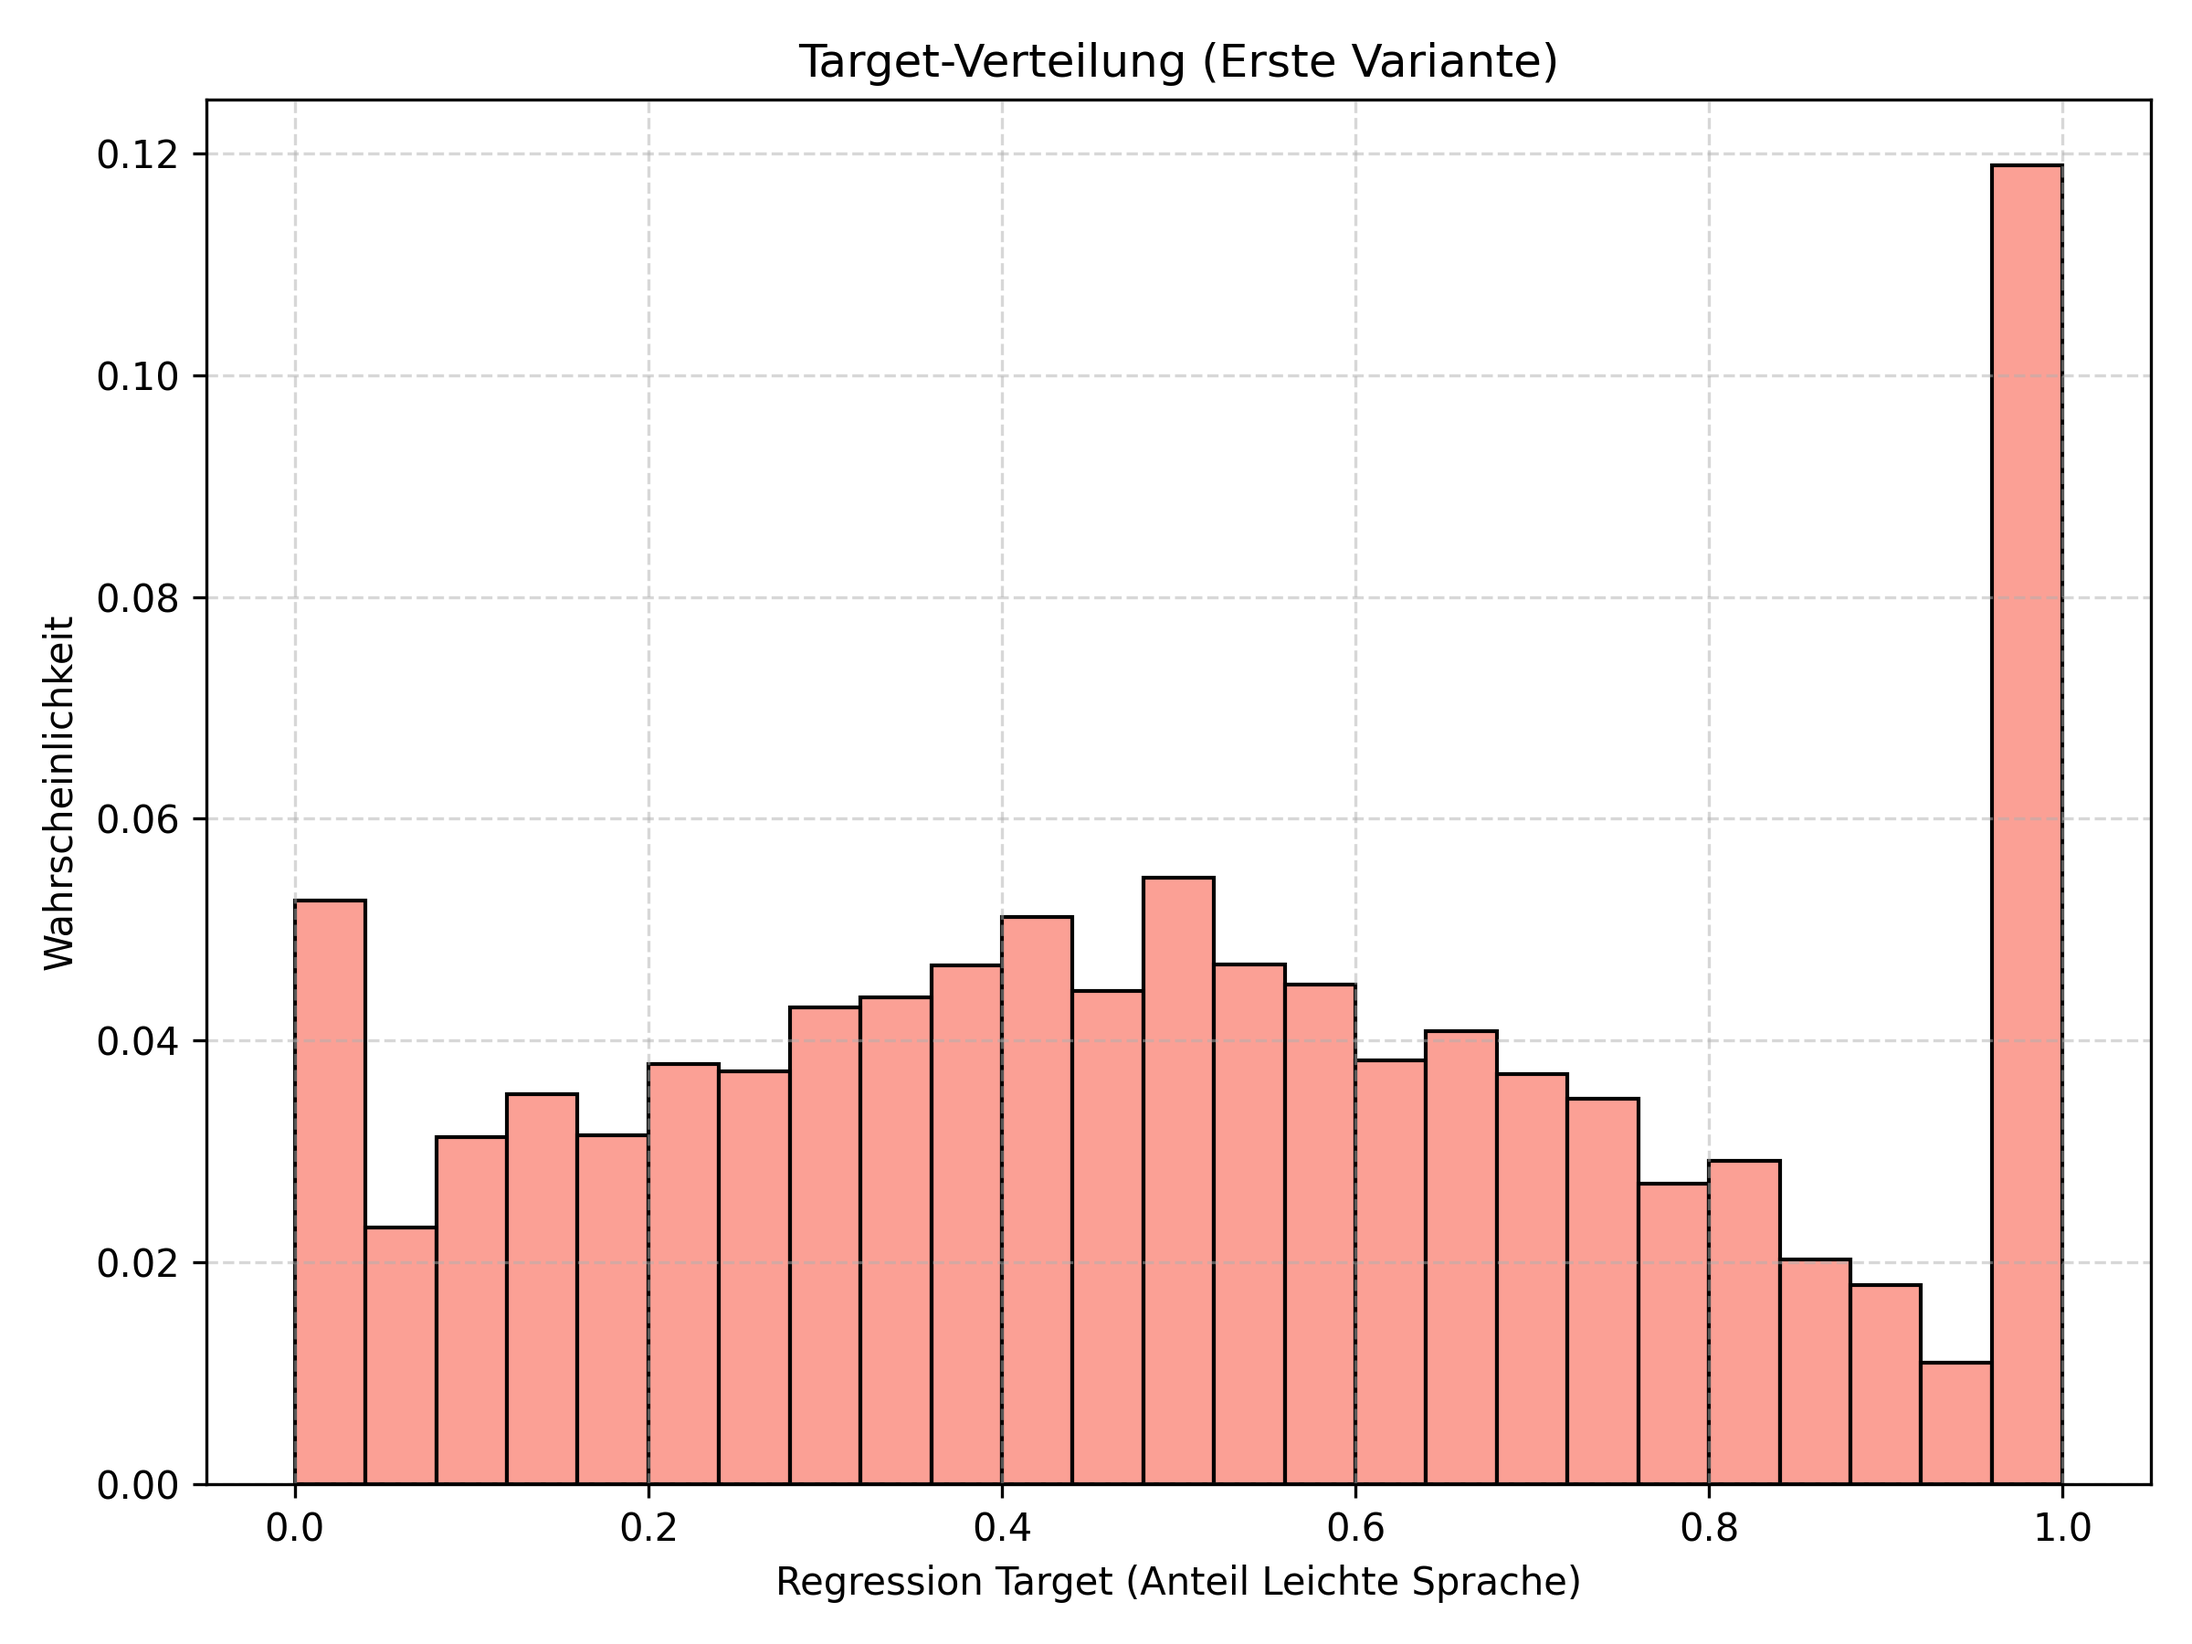
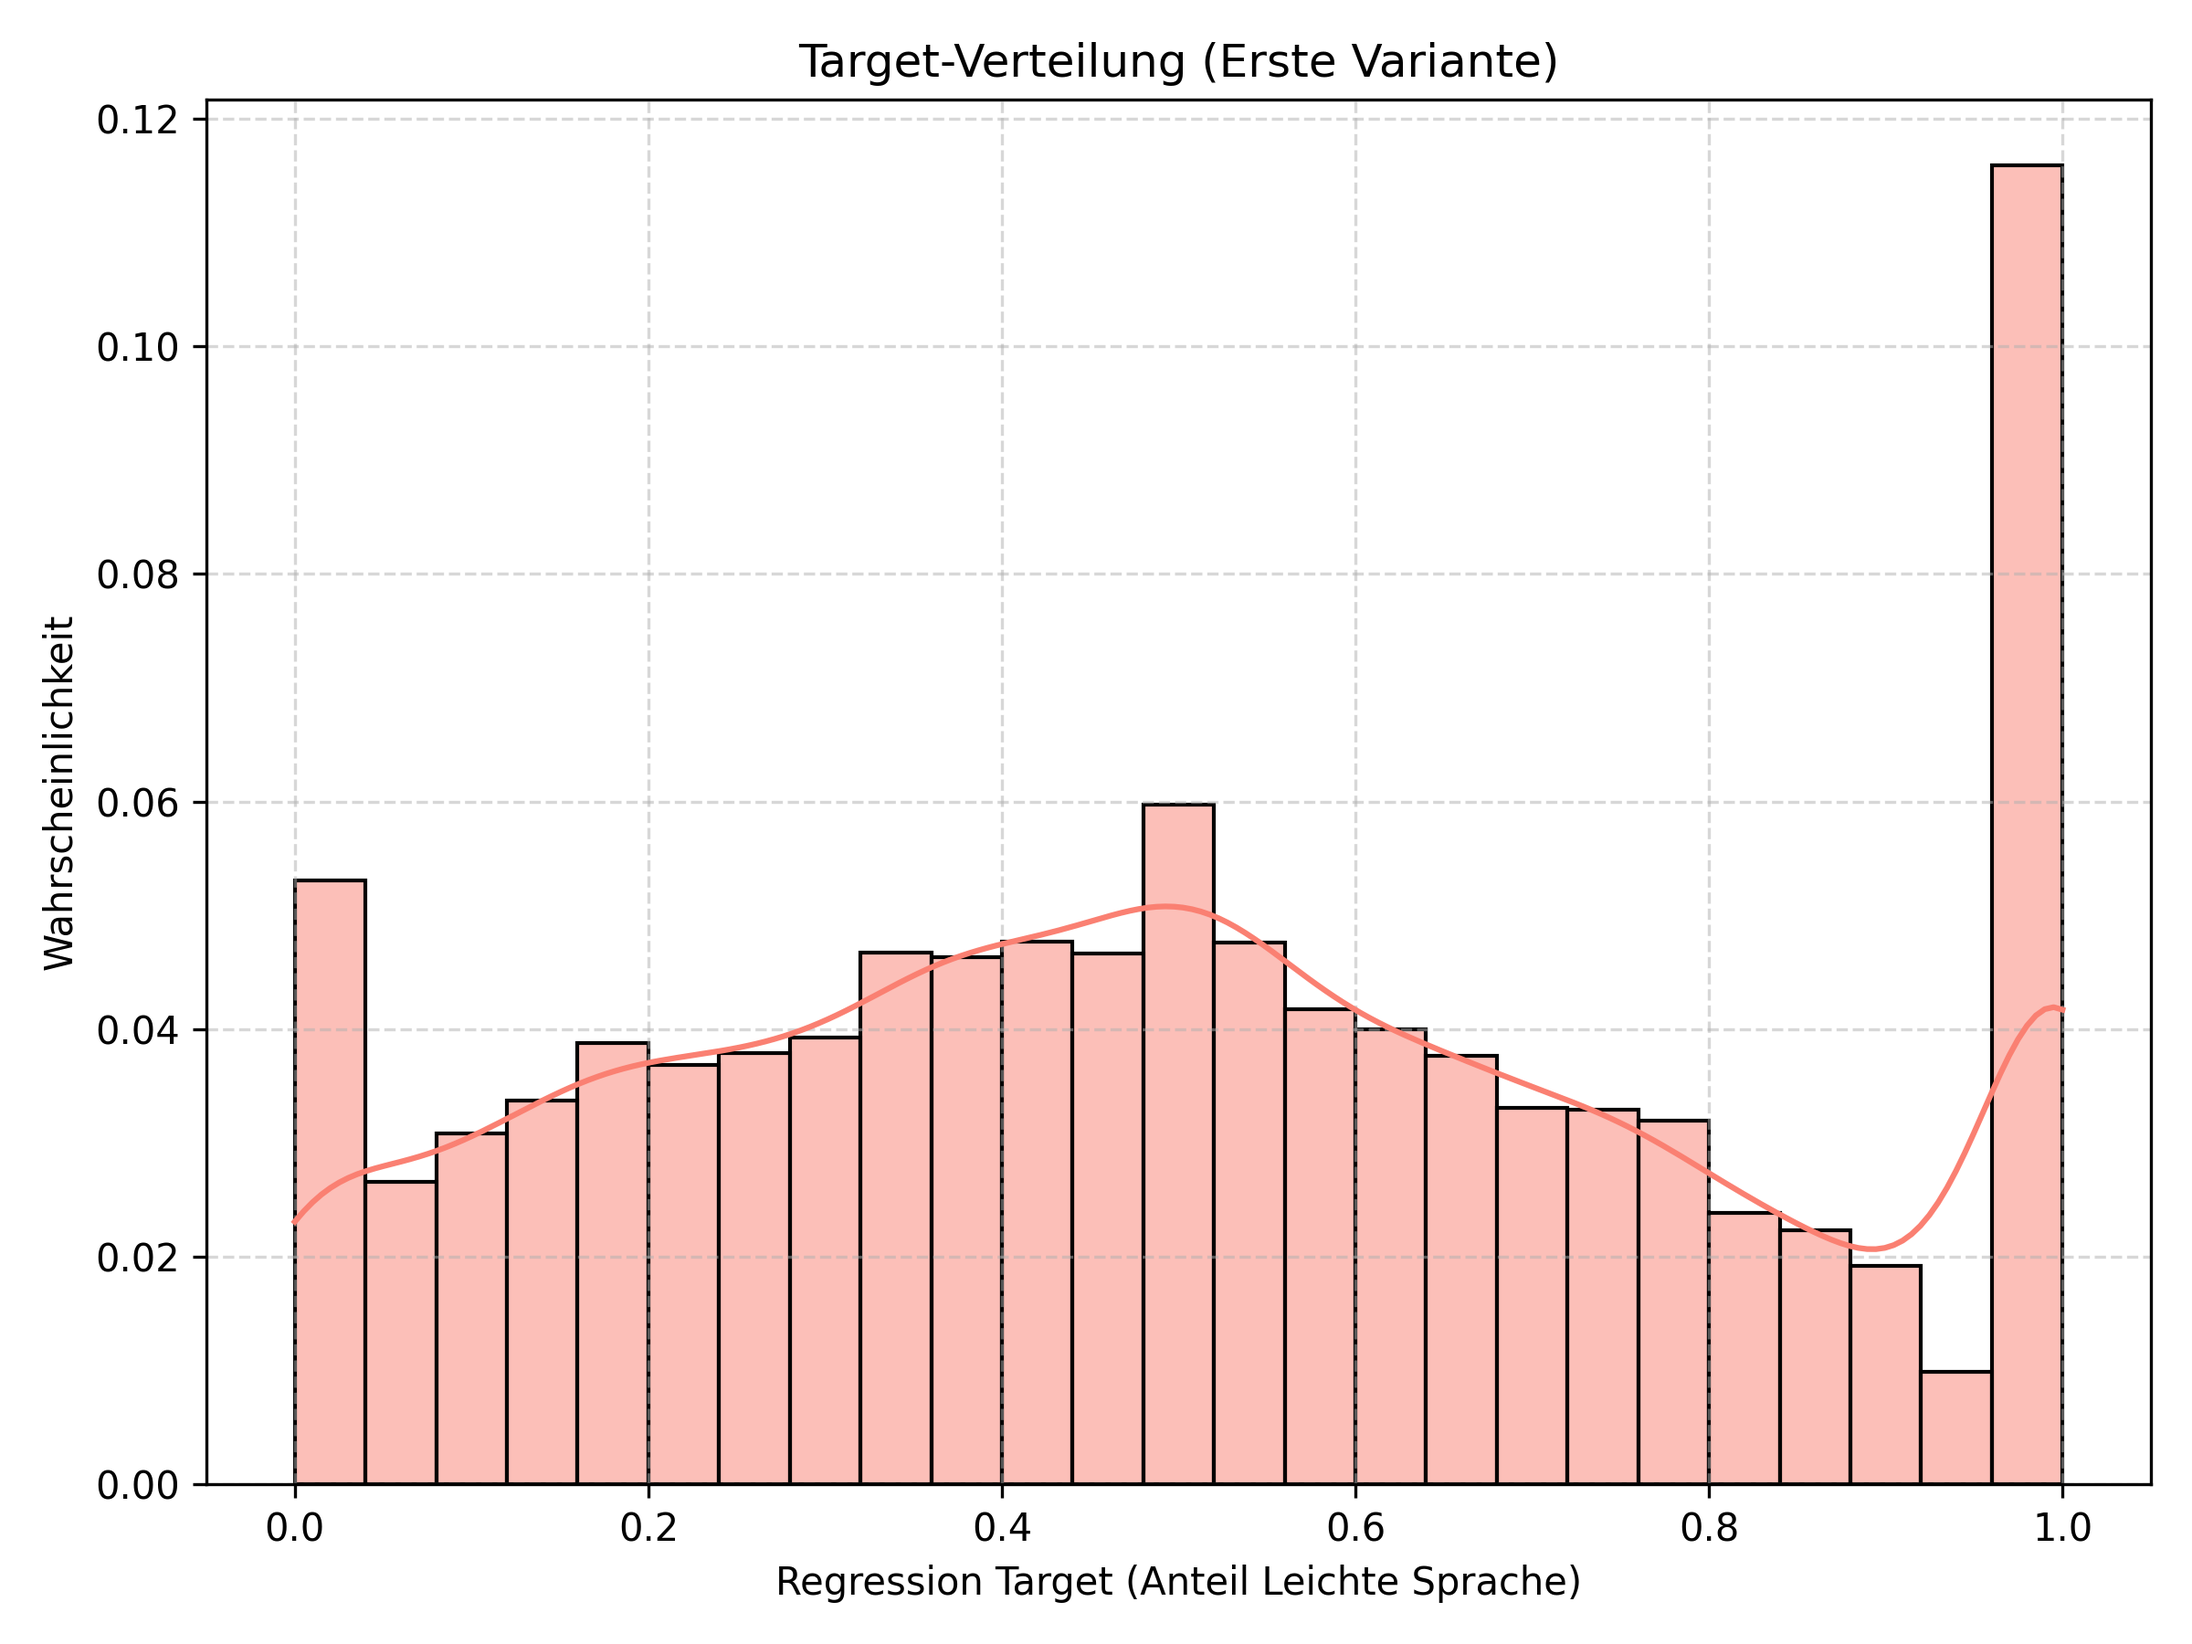
Add Week 17 slides to fiete_scheel_weekly.md including metrics table and KDE plots

diff --git a/research/fiete_scheel_weekly.md b/research/fiete_scheel_weekly.md
@@ -1548,3 +1548,100 @@ $$\lambda = \frac{\text{CharLen}(LS)}{\text{CharLen}(LS) + \text{CharLen}(AS)} \
 1. **Evaluate on Lebenshilfe dataset:** We should get only extremes?
 
 2. **Evaluate LLM-Generated Levels (Approach 2):** Run the trained Mix-Up BiLSTM model on the synthetic LLM text stages (`0.25`, `0.50`, `0.75`) to assess if the predicted complexity aligns with prompt instructions.
+
+---
+
+<!-- _class: section-header -->
+
+## Week 17
+
+---
+
+### MixUp-Regressoren: Die 4 Trainings-Varianten (A & B)
+
+- **Variante A: Statische Vormischung** (`3_mixup_dataloader_test.ipynb`)
+  - *Konzept:* Satzmischungen und Shuffling werden einmalig bei der Dataset-Initialisierung generiert.
+  - *Vorteil:* Sehr stabile Anfangskonvergenz aufgrund geringer Trainingsvarianz.
+  - *Nachteil:* Erhöhte Overfitting-Gefahr, da das Modell keine neuen Satzkombinationen über die Epochen hinweg sieht.
+- **Variante B: Dynamisches Mischen** (`3_mixup_dataloader_test_getitem.ipynb`)
+  - *Konzept:* Zufälliges Shuffling und Mischen der Sätze on-the-fly in `__getitem__`.
+  - *Vorteil:* Maximale Varianz verhindert Overfitting und verbessert die Generalisierung.
+  - *Nachteil:* Schlechte/langsame Anfangskonvergenz durch unruhige Gradienten (hohe Varianz).
+
+---
+
+### MixUp-Regressoren: Die 4 Trainings-Varianten (C & D)
+
+- **Variante C: Hybrid-Lösung** (`3_mixup_dataloader_test_hybrid.ipynb`)
+  - *Konzept:* Kombination aus statisch und dynamisch. Die Wahrscheinlichkeit für dynamisches Mischen $p_{dynamic}$ steigt linear über die Epochen von $0.0$ auf $1.0$.
+  - *Vorteil:* Stabile Anfangskonvergenz gepaart mit hoher Varianz in der Spätphase.
+- **Variante D: Hybrid-Lösung + Zyklische LR** (`3_mixup_dataloader_test_hybrid_cyclic.ipynb`)
+  - *Konzept:* Basiert auf der Hybrid-Lösung (Variante C), führt jedoch einen zyklischen Learning-Rate-Scheduler (`CosineAnnealingWarmRestarts`) ein.
+  - *Vorteil:* Warm Restarts helfen dem Optimizer, sich auf die Gradientenänderungen beim Übergang zu dynamischen Daten einzustellen und aus lokalen Minima auszubrechen.
+
+---
+
+### Evaluation auf dem Lebenshilfe-Testset
+
+| Modell | Ø $\lambda$ (LS) | Ø $\lambda$ (AS) | Acc (0.5) | Balanced Acc | MAE (1/0) |
+| :--- | :---: | :---: | :---: | :---: | :---: |
+| **A (Statisch)** | 0.6518 | 0.1176 | 87.16% | 89.20% | 0.2597 |
+| **B (Dynamisch)** | 0.5516 | 0.2811 | 77.41% | 81.48% | 0.3842 |
+| **C (Hybrid)** | 0.6315 | 0.1323 | 83.18% | 85.98% | 0.2779 |
+| **D (Hybrid + Cyclic)** | **0.7554** | **0.1051** | **91.78%** | **92.83%** | **0.1911** |
+
+- **Beste Ergebnisse:** Variante D (Hybrid + Cyclic) dominiert in allen Metriken.
+- **Schlechteste Ergebnisse:** Variante B (Dynamisch) hat Schwierigkeiten, stabile Repräsentationen zu lernen.
+
+---
+
+<!-- _class: split -->
+
+### Analyse der Lebenshilfe-KDE-Plots
+
+<div class="column-left">
+
+- **Hohe Konfidenz bei Alltagssprache (AS):**
+  - Scharfe, hohe Peaks nahe $0.0$ (blaue Kurve).
+  - AS besitzt starke "Smoking Guns" (Komposita, Nebensätze, Passiv), die das Modell leicht identifizieren kann.
+- **Höhere Varianz bei Einfacher Sprache (LS):**
+  - Flachere und breitere Verteilung (grüne Kurve).
+  - LS zeichnet sich primär durch die *Abwesenheit* von Komplexität aus. Das Signal ist "weicher".
+
+</div>
+
+<div class="column-right">
+
+![KDE-Plots Vergleich](img/analysis/mixup_distribution_comparison_plot.png)
+
+</div>
+
+---
+
+<!-- _class: split -->
+
+### Trainingstargets vs. Vorhersage-Verteilung
+
+<div class="column-left">
+
+- **Orange gestrichelte Kurve:** Repräsentiert die Verteilung der Trainings-Targets.
+- **Uniforme Verteilung:** Das Modell wird im Training fast gleichmäßig mit allen Mischungsverhältnissen konfrontiert.
+- **Generalisierung:** Trotz des Trainings auf kontinuierlichen Mischungen sagen die Modelle bei reinen Texten (LS / AS) sehr präzise Werte nahe $1.0$ und $0.0$ voraus.
+- **Vorteil Warm Restarts:** Variante D verschiebt den LS-Peak am stärksten nach rechts ($\approx 0.85$).
+
+</div>
+
+<div class="column-right">
+
+![Targets Vergleich](img/analysis/mixup_distribution_with_targets.png)
+
+</div>
+
+---
+
+### Zukünftige Optimierungsschritte (Backlog)
+
+- **Lebenshilfe Evaluation:**
+  - Testen des trainierten Regressors auf dem externen Lebenshilfe-Testset (`results/lebenshilfe_dataset_no_paragraphs.json`), um die Zuverlässigkeit auf absatzfreien Reinklassen-Texten zu prüfen.
+- **Evaluation von LLM-generierten Stufen:**
+  - Testen der Vorhersagen auf den synthetischen Textstufen (`0.25`, `0.50`, `0.75`), um zu validieren, ob die Komplexitätsvorhersagen mit den Prompt-Instruktionen korrelieren.
